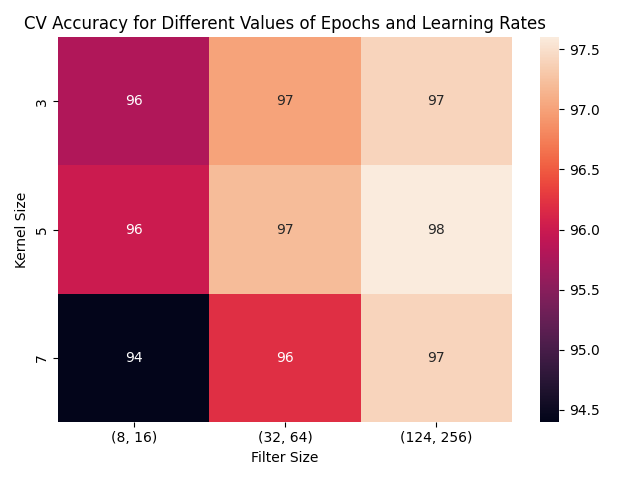
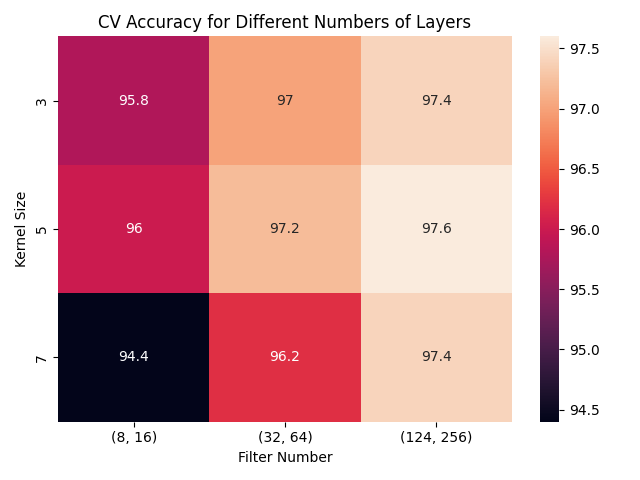
everything pushed

diff --git a/src/utils/utils.py b/src/utils/utils.py
@@ -11,6 +11,9 @@ import torch
 import seaborn as sns
 import matplotlib.pyplot as plt
 import pandas as pd
+import git
+PATH_TO_ROOT = git.Repo(".", search_parent_directories=True).working_dir
+sys.path.append(PATH_TO_ROOT)
 
 
 def get_config(path) -> Dict:
@@ -58,18 +61,21 @@ def get_config_path(default_path=None) -> str:
 
 def plot_grid_heatmap(df: pd.DataFrame, config_path:str, filename=None, title: str=None, annot = True):
     config = get_config(config_path)
+    if config['grid_search'] == 'number_of_conv_layers':
+        title = rf"CV Accuracy for Different Numbers of Layers"
+
     if config['grid_search'] == 'kernel+filter':
         lr = config["learning_rate"]
         title = rf"CV Accuracy for Number of Kernels and Filters, with $\eta = {lr} $"
 
     if config['grid_search'] == 'epochs+lr':
-        lr = config["learning_rate"]
         title = rf"CV Accuracy for Different Values of Epochs and Learning Rates"
-    sns.heatmap(df, annot=annot)
+    plt.clf()
+    sns.heatmap(df, annot=annot, fmt='.3g')
     plt.title(title)
     plt.tight_layout()
-    if filename:
-        plt.savefig(config["save_path"]+'/'+filename)
+    if config["save_plot"]:
+        plt.savefig(PATH_TO_ROOT+config["save_path"]+'/'+filename)
     else:
         plt.show()
 
